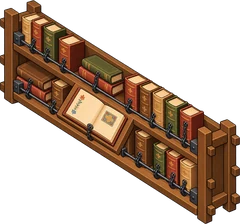
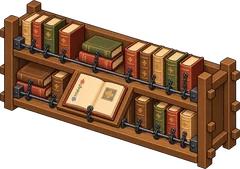
箱庭：鎖つきの書架の絵を変形せずに入れ直す
Claude-Session: https://claude.ai/code/session_01Fotd3SWRhTFWFVYba7542s

diff --git a/index.html b/index.html
@@ -3543,7 +3543,7 @@ textarea,input[type=text]{width:100%;font-size:18px;padding:12px;border:1px soli
   {"k":"A7","n":"青銅の鼎","e":0,"t":"floor","g":"置物","w":2,"d":2,"h":48,"c":"#4f7a6a","p":5,"x":"殷や周で、祖先や神をまつるのに使った器。鼎は王の権威のしるしで、楚の荘王が周の鼎の重さを尋ねた話から「鼎の軽重を問う」という言葉が生まれた。"},
   {"k":"A8","n":"獅子狩りの浮き彫り","e":0,"t":"wall","w":4,"h":66,"y":52,"c":"#b9a888","p":10,"x":"アッシリアのアッシュルバニパル王がライオンを狩る場面。王の獅子狩りは、国を守る力を見せる儀式でもあった。"},
   {"k":"M1","n":"写本台","e":1,"t":"floor","g":"家具","w":3,"d":2,"h":58,"c":"#7a5434","p":5,"x":"修道院の写字室では、修道士たちがこの台で本を一字ずつ書き写した。羊皮紙は羊や子牛の皮なので、大きな聖書一冊に数百頭ぶんが必要だったという。"},
-  {"k":"M2","n":"鎖つきの書架","e":1,"t":"floor","g":"本棚","w":4,"d":1,"h":52,"c":"#5e3d24","p":15,"x":"本がとても高価だったため、盗まれないように鎖で棚につないだ。イギリスのヘレフォード大聖堂には、今も鎖つきの図書館が残っている。"},
+  {"k":"M2","n":"鎖つきの書架","e":1,"t":"floor","g":"本棚","w":4,"d":1,"h":24,"c":"#5e3d24","p":15,"x":"本がとても高価だったため、盗まれないように鎖で棚につないだ。イギリスのヘレフォード大聖堂には、今も鎖つきの図書館が残っている。"},
   {"k":"M3","n":"聖遺物箱","e":1,"t":"floor","g":"置物","w":2,"d":2,"h":64,"c":"#c19a3e","p":10,"x":"聖人の骨や遺品を納めた箱。巡礼者たちは聖遺物を拝むため、サンティアゴ＝デ＝コンポステーラまで何か月もかけて歩いた。"},
   {"k":"M4","n":"アストロラーベ","e":1,"t":"floor","g":"置物","w":2,"d":2,"h":68,"c":"#b8873a","p":10,"x":"星の高さを測り、時刻や方角を知る道具。イスラーム世界で改良が重ねられ、礼拝の時刻やメッカの方角を知るのにも使われた。"},
   {"k":"M5","n":"板金鎧","e":1,"t":"floor","g":"置物","w":1,"d":1,"h":84,"c":"#8d949c","p":10,"x":"全身を覆う板金の鎧は、14〜15世紀に広まった。重そうに見えるが20〜25キロほどで、着たまま馬に乗ることができたという。"},
